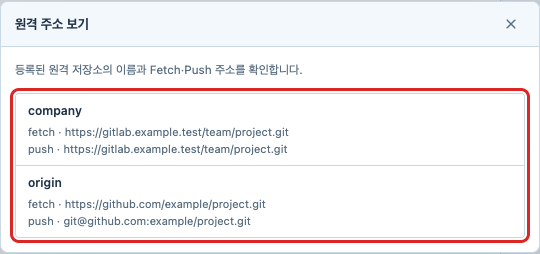
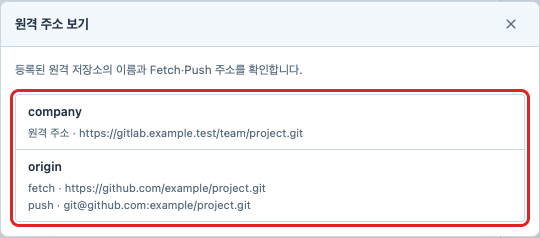
fix: collapse identical fetch and push URLs in remote list

diff --git a/public/workspace.js b/public/workspace.js
@@ -37,8 +37,13 @@ async function showRemoteAddresses(){
  PgitCommandHelp.mount(body,'remoteList');list.append(PgitUI.message('불러오는 중…'));body.append(list);PgitUI.dialogFrame(panel,{title:commands.remoteList[0],body,canClose:()=>!working});if(!panel.open)panel.showModal();
  const valid=()=>panel.open&&body.isConnected&&state?.root===root;
  try{const result=await api('remoteList');if(!valid())return;list.replaceChildren();const groups=new Map();
-  for(const line of result.trim().split('\n').filter(Boolean)){const match=line.match(/^(\S+)\s+(.+)\s+\((fetch|push)\)$/);if(!match)continue;const [,name,url,kind]=match;if(!groups.has(name))groups.set(name,[]);groups.get(name).push(kind+' · '+url)}
-  for(const [name,addresses] of groups)list.append(PgitUI.listItem({title:name,meta:addresses.join('\n')}).element);
+  for(const line of result.trim().split('\n').filter(Boolean)){const match=line.match(/^(\S+)\s+(.+)\s+\((fetch|push)\)$/);if(!match)continue;const [,name,url,kind]=match;if(!groups.has(name))groups.set(name,[]);groups.get(name).push({kind,url})}
+  for(const [name,addresses] of groups){
+   const fetchUrls=[...new Set(addresses.filter(a=>a.kind==='fetch').map(a=>a.url))],pushUrls=[...new Set(addresses.filter(a=>a.kind==='push').map(a=>a.url))];
+   const same=fetchUrls.length>0&&fetchUrls.length===pushUrls.length&&fetchUrls.every(url=>pushUrls.includes(url));
+   const lines=same?fetchUrls.map(url=>PgitI18n.t('원격 주소')+' · '+url):addresses.map(({kind,url})=>kind+' · '+url);
+   list.append(PgitUI.listItem({title:name,meta:lines.join('\n')}).element);
+  }
   if(!groups.size)list.append(PgitUI.message('원격 저장소가 없습니다.'));
  }catch(error){if(valid())list.replaceChildren(PgitUI.message(error.message,{error:true}))}
 }

diff --git a/public/locales.js b/public/locales.js
@@ -40,6 +40,7 @@ const languages=[
 ];
 const columns=["ja","zh-CN","es","fr"];
 const messages={
+"Remote URL":["リモート URL","远程地址","URL remota","URL distante"],
 "Continue recent work":["最近の作業を続ける", "继续最近的工作", "Continuar el trabajo reciente", "Reprendre le travail récent"],
 "Start a project":["プロジェクトを始める", "开始一个项目", "Inicia un proyecto", "Démarrer un projet"],
 "A Git repository on this computer":["このコンピューターの Git リポジトリ", "此电脑上的 Git 仓库", "Un repositorio Git en este equipo", "Un dépôt Git sur cet ordinateur"],

diff --git a/public/i18n.js b/public/i18n.js
@@ -1,6 +1,7 @@
 (() => {
 // UI copy only. Repository names, commit messages, code, paths and command output stay verbatim.
 const pairs=`
+원격 주소|Remote URL
 최근 작업 이어가기|Continue recent work
 프로젝트를 시작하세요|Start a project
 내 컴퓨터의 Git 저장소|A Git repository on this computer
